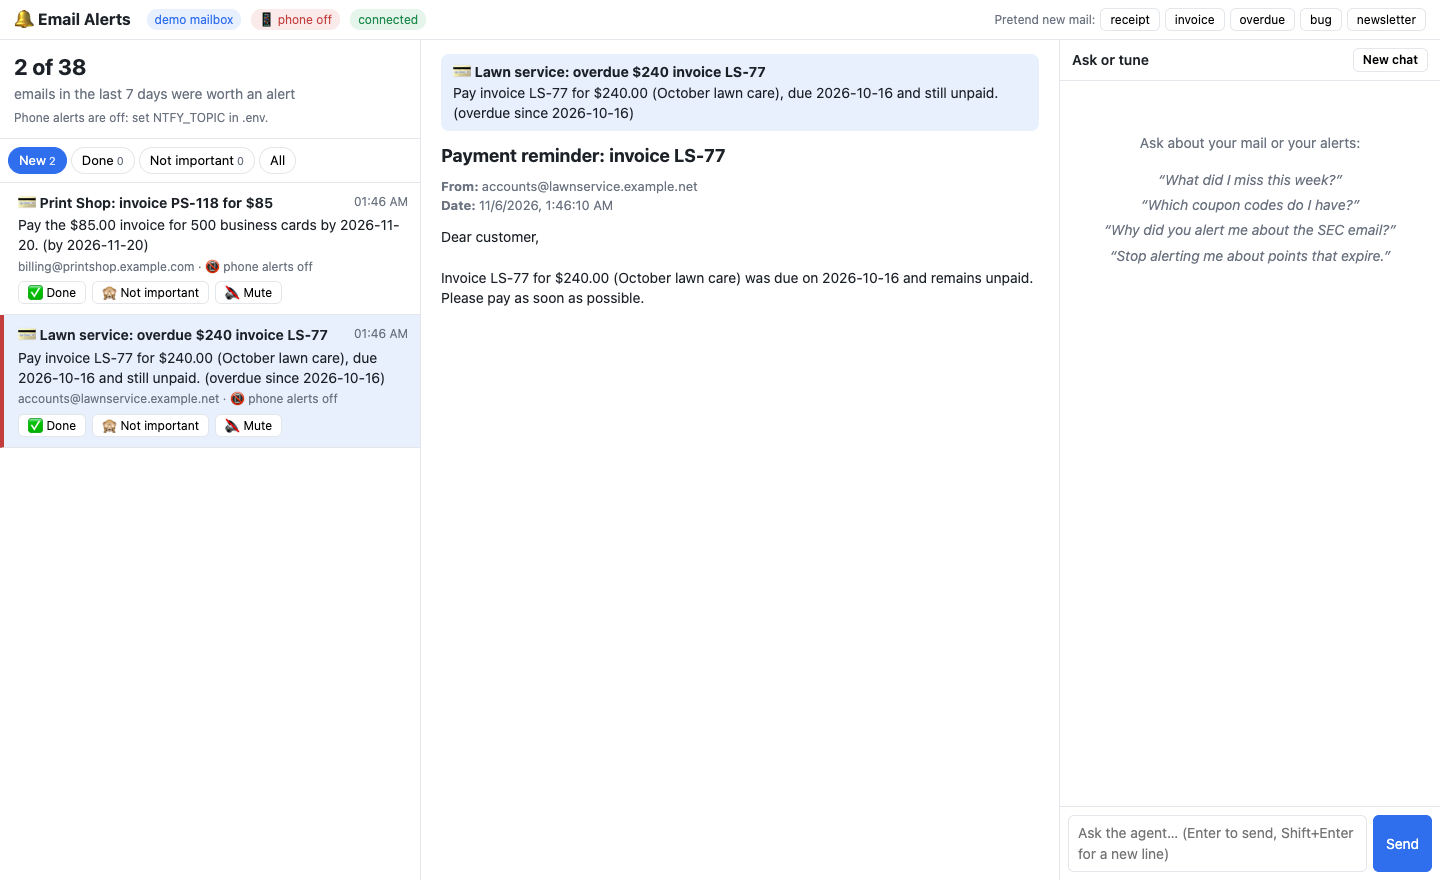
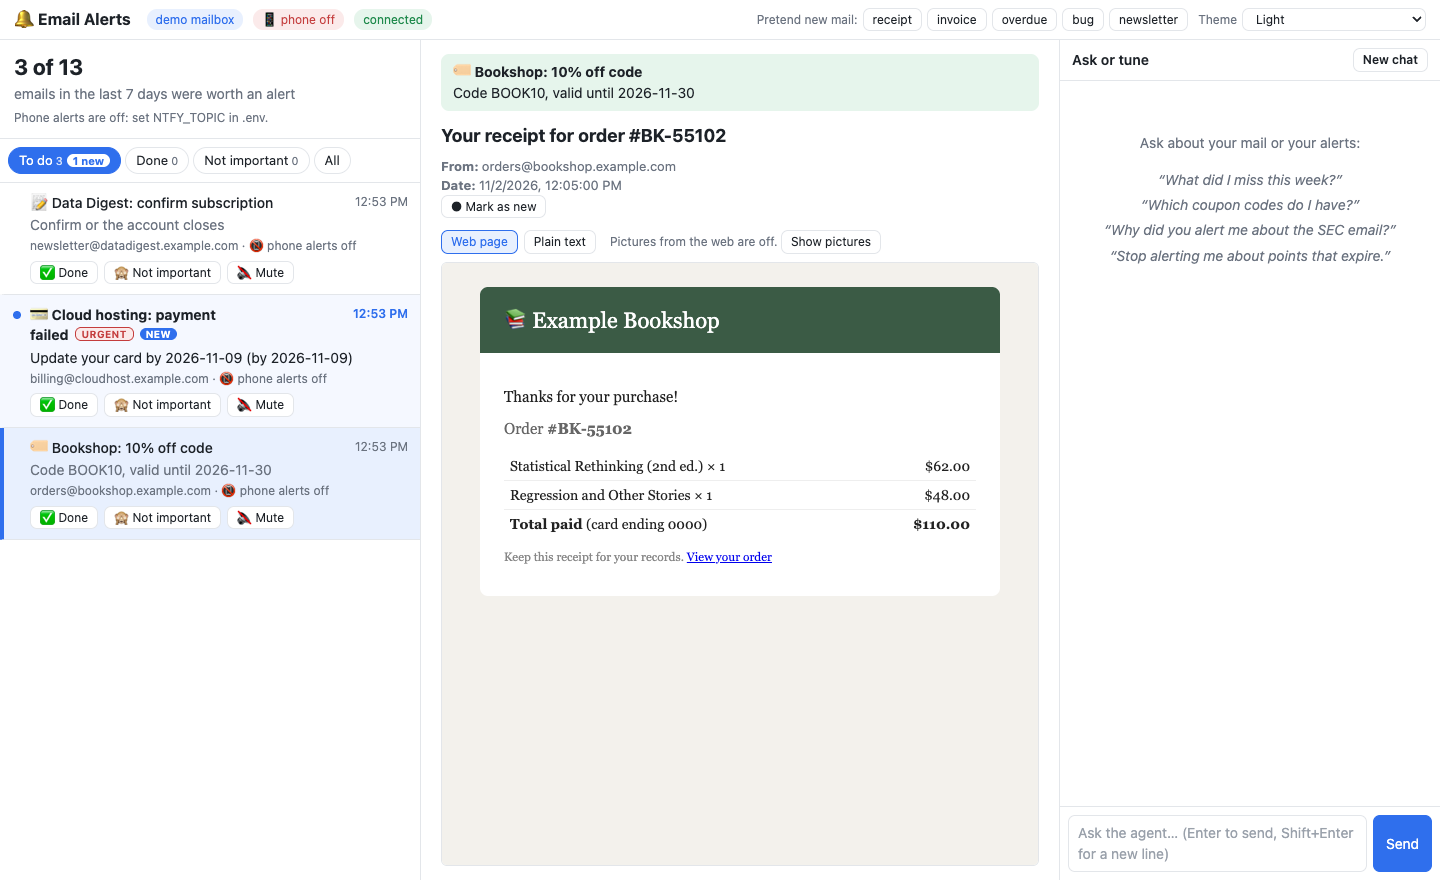
refactor: improve clarity in comments and documentation across multiple files

diff --git a/email_agent/apps/web/app.js b/email_agent/apps/web/app.js
@@ -102,6 +102,9 @@ async function loadAlerts() {
             "which alerts you opened.", "error");
     }
     showStats(data);
+    // The open email's alert left this list (marked Done, Not important or muted,
+    // here or in another browser): clear the middle so it matches the list.
+    if (selected && !data.alerts.some((alert) => alert.num === selected.num)) closeReader();
     $("#alert-list").replaceChildren(...data.alerts.map(alertCard));
     if (!data.alerts.length) {
       $("#alert-list").append(el("li", { class: "muted center" },
@@ -177,6 +180,8 @@ function alertCard(alert) {
     el("div", { class: "line1" },
       el("span", { class: "title" },
         (KINDS[alert.kind] || "🔔") + " " + alert.title,
+        alert.urgent ? el("span", { class: "urgent-tag", title: "Urgent: needs you soon (goes to your phone at once)" },
+          "Urgent") : null,
         alert.seen || !canMarkSeen ? null
           : el("span", { class: "new-tag", title: "You haven't opened this one yet" }, "New")),
       el("span", { class: "time" }, shortTime(alert.created))),
@@ -202,6 +207,14 @@ async function markSeen(alert, seen) {
   } catch (problem) { toast(problem.message, "error"); }
 }
 
+// Back to the "click an alert" note that the middle shows at the start.
+let readerIntro = null;  // saved at start-up
+function closeReader() {
+  selected = null;
+  $("#reader").classList.remove("page-mode");
+  $("#reader").replaceChildren(...readerIntro.map((node) => node.cloneNode(true)));
+}
+
 async function openAlert(alert) {
   selected = alert;
   document.querySelectorAll(".alert").forEach((card) => {
@@ -212,6 +225,7 @@ async function openAlert(alert) {
   if (!alert.seen && canMarkSeen) markSeen(alert, true);
   try {
     const email = await api("/api/email/" + encodeURIComponent(alert.email_id));
+    if (selected !== alert) return;  // closed or another one opened while it loaded
     const asPage = email.has_html && !showText;
     $("#reader").classList.toggle("page-mode", asPage);
     const parts = [
@@ -456,6 +470,7 @@ function setupTheme() {
 // ---------- start ----------
 
 document.addEventListener("DOMContentLoaded", () => {
+  readerIntro = [...$("#reader").childNodes].map((node) => node.cloneNode(true));
   $("#chat-form").addEventListener("submit", (event) => {
     event.preventDefault();
     const text = $("#chat-input").value.trim();

diff --git a/email_agent/apps/web/style.css b/email_agent/apps/web/style.css
@@ -115,7 +115,6 @@ main { flex: 1; min-height: 0; display: grid; grid-template-columns: 420px 1fr 3
 .alert-list { list-style: none; margin: 0; padding: 0; overflow-y: auto; flex: 1; }
 .alert { position: relative; padding: 10px 12px 10px 26px; border-bottom: 1px solid var(--line); cursor: pointer; border-left: 4px solid transparent; }
 .alert:hover { background: var(--hover); }
-.alert.urgent { border-left-color: var(--bad); }
 .alert .line1 { display: flex; justify-content: space-between; gap: 8px; }
 .alert .time { color: var(--muted); font-size: 12px; white-space: nowrap; }
 .alert .message { margin: 2px 0; }
@@ -130,7 +129,9 @@ main { flex: 1; min-height: 0; display: grid; grid-template-columns: 420px 1fr 3
 .alert.seen .title { font-weight: 500; }
 .new-tag { margin-left: 6px; padding: 0 6px; border-radius: 6px; font-size: 10px; font-weight: 700; letter-spacing: .03em; text-transform: uppercase; vertical-align: 2px; background: var(--unseen); color: var(--on-accent); }
 .alert.seen .message { color: var(--muted); }
-.alert.selected, .alert.selected:hover { background: var(--accent-soft); }
+/* the bar on the left marks the alert whose email is open in the middle */
+.alert.selected, .alert.selected:hover { background: var(--accent-soft); border-left-color: var(--accent); }
+.urgent-tag { margin-left: 6px; padding: 0 6px; border-radius: 6px; font-size: 10px; font-weight: 700; letter-spacing: .03em; text-transform: uppercase; vertical-align: 2px; background: var(--bad-soft); color: var(--bad); border: 1px solid var(--bad); }
 
 /* ---------- middle: the email behind an alert ---------- */
 

diff --git a/email_agent/mail/idle_watcher.py b/email_agent/mail/idle_watcher.py
@@ -1,8 +1,8 @@
 """Wait for new mail with IMAP IDLE, in a background thread.
 
 IDLE means: "server, tell me the moment something changes" (no polling).
-Gmail drops an IDLE after about 10 minutes of silence, so we stop and
-re-start it every 9 minutes. When the server says a message EXISTS (new
+Mail servers drop a quiet IDLE after a while (Gmail after about 10 minutes),
+so we stop and re-start it every 9 minutes. When the server says a message EXISTS (new
 mail), we call on_new_mail(); the caller then syncs and runs the listeners.
 
 The IDLE connection opens the folder read-only: it only watches.
@@ -14,7 +14,7 @@ import time
 from email_agent.core.config import Config
 from email_agent.mail.login import sign_in
 
-REIDLE_SECONDS = 9 * 60   # restart IDLE before Gmail's ~10-minute cut-off
+REIDLE_SECONDS = 9 * 60   # restart IDLE before the server cuts it off (Gmail: ~10 minutes)
 CHECK_SECONDS = 30        # how often we wake up to see if we should stop
 RETRY_SECONDS = 30        # wait after a dropped connection before reconnecting
 

diff --git a/email_agent/apps/server.py b/email_agent/apps/server.py
@@ -584,9 +584,9 @@ def create_app(config: Config | None = None, *, chat_turn=None, sync_fn=sync,
         background, watcher = [], None
         can_watch = config.mailbox == "imap" and config.can_sign_in
         lock = WatchLock(config)
-        watch_here = start_watcher_thread  # tests pass False: no Gmail, no summaries
+        watch_here = start_watcher_thread  # tests pass False: no mail server, no summaries
         if watch_here and can_watch and not lock.acquire():
-            # email-watch (perhaps auto-started at login) already watches Gmail and
+            # email-watch (perhaps auto-started at login) already watches the mailbox and
             # sends the alerts; this page then only shows them.
             log(f"email-watch is already watching {config.provider_name} (process {lock.holder()}); "
                 "this page shows its alerts")

diff --git a/scripts/listeners/important_mail.py b/scripts/listeners/important_mail.py
@@ -14,7 +14,8 @@ email and decides whether it is one of:
 
 Urgent ones (security warnings, or a deadline/expiry within URGENT_DAYS) go to
 your phone right away; the rest wait for the next summary (SUMMARY_HOURS in .env).
-Important emails are also starred, and labeled "Alerts" in Gmail.
+Important emails are also starred, and labeled "Alerts" (in Gmail; other
+mailboxes keep the label on this computer).
 Login codes you asked for yourself are skipped: you are already waiting for them.
 
 It learns from the Alerts page: senders you mute are skipped (no Claude call),

diff --git a/email_agent/automation/listeners.py b/email_agent/automation/listeners.py
@@ -128,7 +128,7 @@ class ScriptContext:
         self.claude_calls: list[dict] = []   # model, tokens, cost of each call
 
     async def _apply(self, action: str, email_id: str, label: str | None = None) -> str:
-        # actions.apply may talk to Gmail, so run it off the event loop
+        # actions.apply may talk to the mail server, so run it off the event loop
         message = await asyncio.to_thread(actions.apply, action, email_id, label)
         self.actions.append(message)
         return message

diff --git a/email_agent/core/watch_lock.py b/email_agent/core/watch_lock.py
@@ -1,7 +1,7 @@
-"""Make sure only one program watches Gmail at a time.
+"""Make sure only one program watches your mailbox at a time.
 
 email-watch (started by you or automatically at login) and email-agent (the
-web page) can both watch Gmail. If two did it at once, every new email would
+web page) can both watch the mailbox. If two did it at once, every new email would
 be checked twice. Whoever starts first holds this lock; the other one either
 waits (email-watch) or just shows the page (email-agent).
 

diff --git a/email_agent/core/config.py b/email_agent/core/config.py
@@ -70,7 +70,7 @@ class Config:
     imap_folder: str = DEFAULT_IMAP_FOLDER
     sync_max_emails: int = DEFAULT_SYNC_MAX_EMAILS
     sync_days: int = DEFAULT_SYNC_DAYS
-    port: int = DEFAULT_PORT  # the local web server (step 9)
+    port: int = DEFAULT_PORT  # the Alerts page (uv run email-agent)
     # Phone alerts via ntfy. The topic works like a password: anyone who knows
     # it can read your alerts, so it is never shown. Empty = no phone alerts.
     ntfy_topic: str = field(default="", repr=False)

diff --git a/email_agent/automation/alerts.py b/email_agent/automation/alerts.py
@@ -15,7 +15,7 @@ The topic works like a password, so it is never printed.
     uv run email-alerts test       # send a test message to your phone
     uv run email-alerts summary    # send the summary now
     uv run email-alerts check 200  # check the 200 newest stored emails for alerts
-                                   # (for real: stars and labels them in Gmail)
+                                   # (for real: stars them, and labels them if the mailbox has labels)
 """
 
 import asyncio

diff --git a/tests/automation/test_my_listeners.py b/tests/automation/test_my_listeners.py
@@ -231,7 +231,7 @@ async def test_preview_command_on_demo_mailbox():
     assert [e["id"] for e in emails if e["starred"]] == ["e014"]  # as in the sample data
 
 
-# ---------- important mail (alerts for the dump account) ----------
+# ---------- important mail (alerts for an address you give out freely) ----------
 
 def answer(kind="none", title="", detail="", deadline="", urgent=False):
     return {"kind": kind, "title": title, "detail": detail, "deadline": deadline,

diff --git a/scripts/listeners/triage.py b/scripts/listeners/triage.py
@@ -24,7 +24,7 @@ config = {
     "event": "email_received",
 }
 
-# ---- labels it may add (type -> Gmail label) ----
+# ---- labels it may add (type -> label; kept on this computer if the mailbox has no labels) ----
 LABELS = {
     "news": "News", "promotions": "Promotions", "finance": "Finance", "social": "Social",
     "work": "Work", "security": "Security", "travel": "Travel",

diff --git a/tests/apps/test_server.py b/tests/apps/test_server.py
@@ -345,7 +345,7 @@ def test_watcher_starts_and_stops_with_the_server(listeners_dir, fake, monkeypat
     assert started["stop"].is_set() and not started["thread"].is_alive()  # stopped cleanly
 
 
-# ---------- the web page (step 10) ----------
+# ---------- the web page ----------
 
 def test_page_is_served_with_strict_browser_rules(client):
     r = client.get("/")
